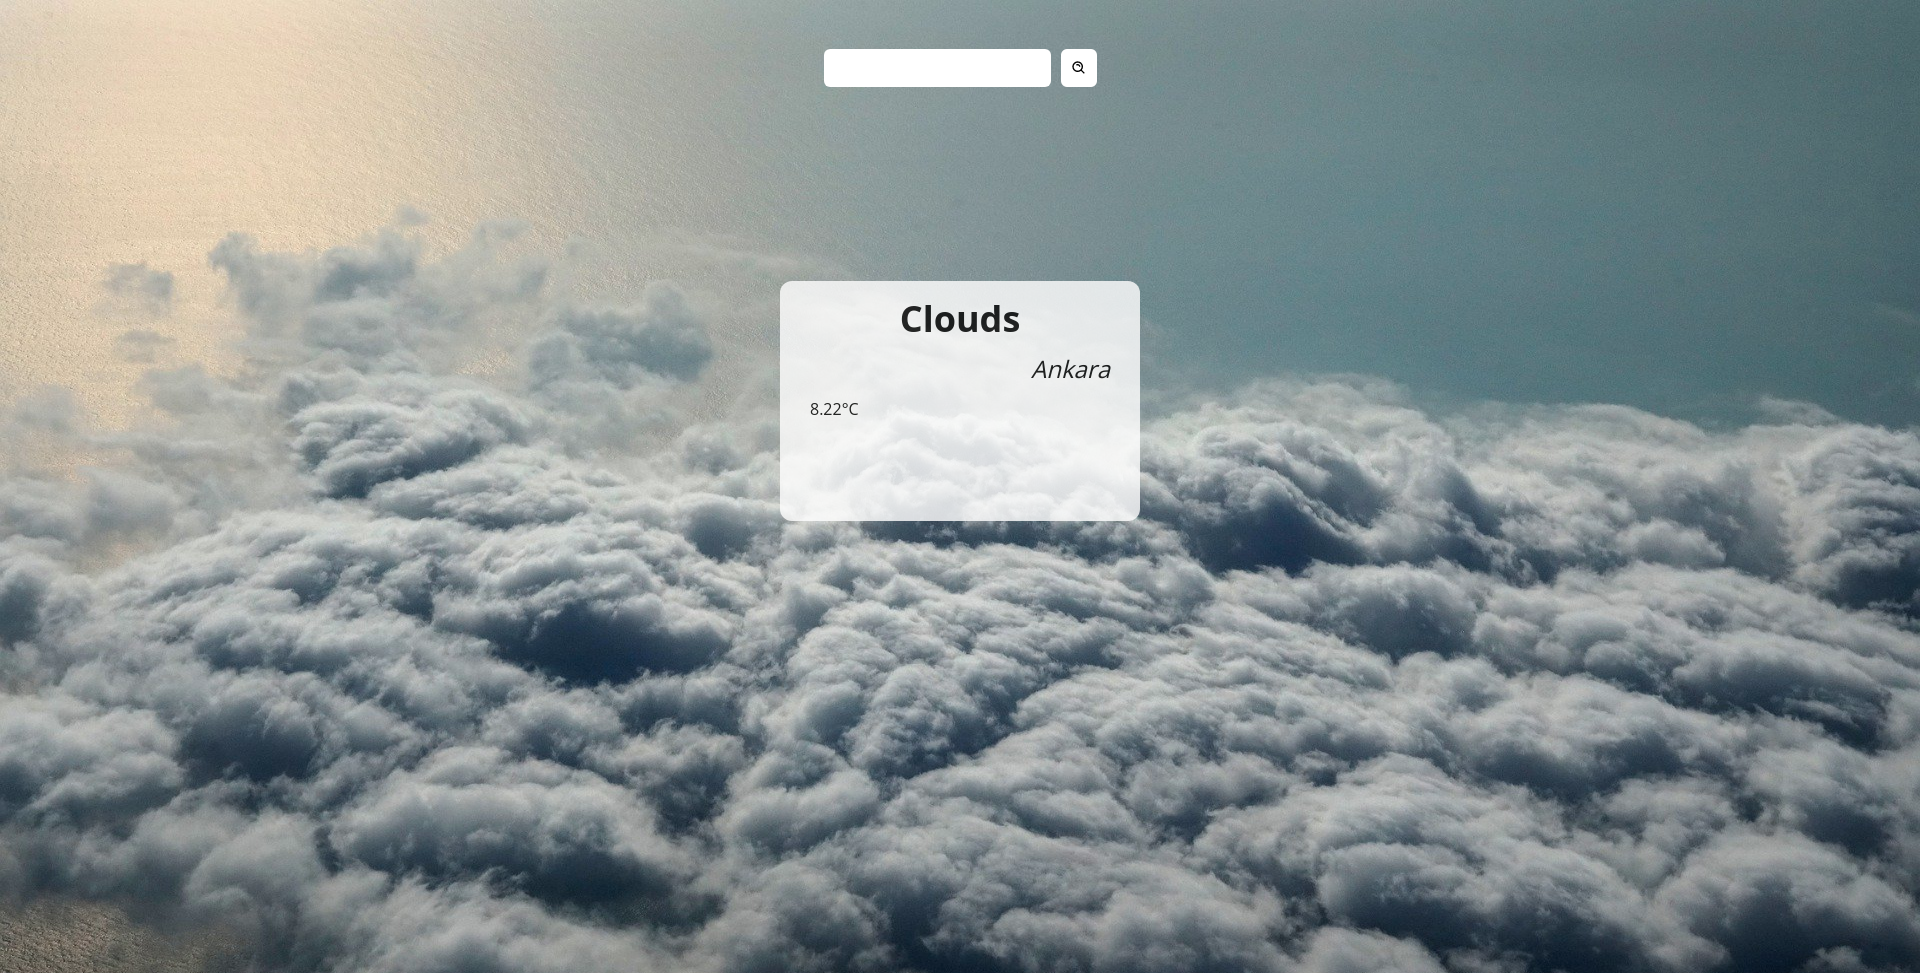
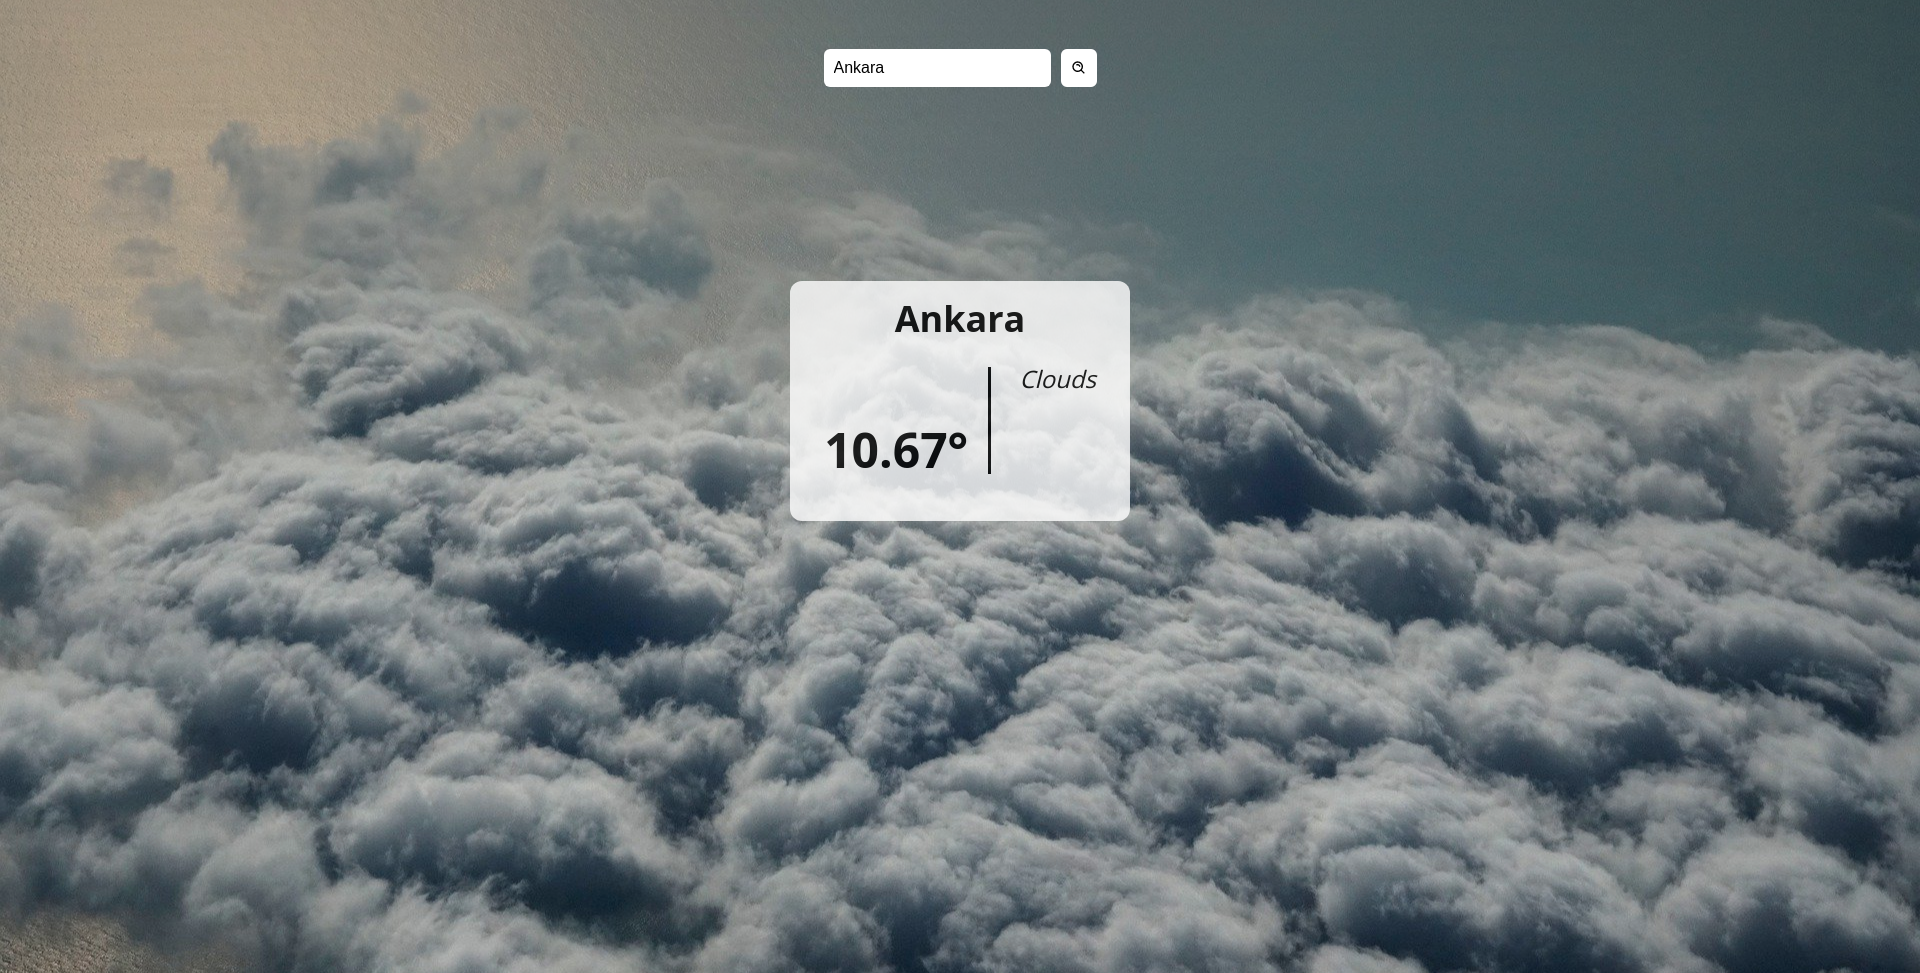
weather-app: Redesign card && Build

diff --git a/weather-app/dist/index.js b/weather-app/dist/index.js
@@ -1,1 +1,1 @@
-(()=>{"use strict";function t(t,e,i,a){const s=document.createElement(t);return Array.isArray(e)?e.forEach((t=>s.classList.add(t))):t&&s.classList.add(e),i&&(s.innerText=i),a&&s.setAttribute("id",a),s}const e=new class{constructor(t){this.root=document.querySelector(t),this.bgImgDispatch={Clouds:"clouds.jpg",Clear:"clear.jpg",Snow:"snow.jpg"}}createCard({type:e,city:i,degree:a}){const s=t("div","card");return[t("div","type",e),t("div","city",i),t("div","degree",a)].forEach((t=>s.appendChild(t))),s}insertCard=t=>{const e=this.createCard(t);this.root.innerHTML="",this.root.appendChild(e)};changeBackground(t){t in this.bgImgDispatch&&(document.body.style.backgroundImage=`url(images/${this.bgImgDispatch[t]})`,document.body.style.backgroundSize="1920px 1080px")}}("#root"),i=new class{constructor(t,e){this.view=t,this.inputElement=document.querySelector(e),this.API_KEY="0e53e87f32b3455f4c4a3fec3c04c53b",this.initialStateDone=!1}async submitCity(t){if(t===this.lastCity)return;const e=await this.fetchData(t),i={city:e.name,type:e.weather[0].main,degree:e.main.temp};this.lastCity=i.city,this.view.changeBackground(i.type),this.view.insertCard(i)}async fetchData(t){const e=await fetch(`https://api.openweathermap.org/data/2.5/weather?q=${t}&APPID=${this.API_KEY}&units=metric`);if(!e.ok)throw new Error(`Problem in fetch in ${t}`);return e.json()}initialState(t="Ankara"){this.initialStateDone||(this.submitCity(t),this.lastCity=t,this.initialStateDone=!0)}async doSearch(){this.submitCity(this.inputElement.value)}}(e,"#search-city-input");document.getElementById("search-city-form").addEventListener("submit",(t=>{t.preventDefault(),i.doSearch()})),i.initialState()})();
+(()=>{"use strict";function t(t,e,i,a){const s=document.createElement(t);return Array.isArray(e)?e.forEach((t=>s.classList.add(t))):t&&s.classList.add(e),i&&(s.innerText=i),a&&s.setAttribute("id",a),s}const e=new class{constructor(t){this.root=document.querySelector(t),this.bgImgDispatch={Clouds:"clouds.jpg",Clear:"clear.jpg",Drizzle:"drizzle.jpg",Mist:"mist.jpg",Snow:"snow.jpg",Thunder:"thunder.jpg"}}createCard({type:e,city:i,degree:a}){const s=t("div","card"),n=t("div","type",e),r=t("div","city",i),c=t("div","degree",a);s.appendChild(r);const h=t("div","other"),o=t("div","degree-container");return o.appendChild(c),[o,n].forEach((t=>h.appendChild(t))),s.appendChild(h),s}insertCard=t=>{const e=this.createCard(t);this.root.innerHTML="",this.root.appendChild(e)};changeBackground(t){t in this.bgImgDispatch&&(document.querySelector("html").style.backgroundImage=`linear-gradient(to top, rgba(0, 0, 0, 0), rgba(0, 0, 0, 0.30)), url(images/${this.bgImgDispatch[t]})`)}shakeInput(){const t=document.getElementById("search-city-input");t.classList.add("shaking"),setTimeout((()=>t.classList.remove("shaking")),500)}}("#root"),i=new class{constructor(t,e){this.view=t,this.inputElement=document.querySelector(e),this.API_KEY="0e53e87f32b3455f4c4a3fec3c04c53b",this.initialStateDone=!1}async submitCity(t){if(t===this.lastCity)return;const e=await this.fetchData(t),i={city:e.name,type:e.weather[0].main,degree:e.main.temp};this.lastCity=i.city,this.view.changeBackground(i.type),this.view.insertCard(i)}async fetchData(t){const e=await fetch(`https://api.openweathermap.org/data/2.5/weather?q=${t}&APPID=${this.API_KEY}&units=metric`);if(!e.ok)throw this.view.shakeInput(),new Error(`Problem in fetch in ${t}`);return e.json()}initialState(t="Ankara"){this.initialStateDone||(this.submitCity(t),this.lastCity=t,this.initialStateDone=!0)}async doSearch(){this.submitCity(this.inputElement.value)}}(e,"#search-city-input");document.getElementById("search-city-form").addEventListener("submit",(t=>{t.preventDefault(),i.doSearch()})),i.initialState()})();

diff --git a/weather-app/dist/style/style.css b/weather-app/dist/style/style.css
@@ -24,31 +24,52 @@ body {
   height: 200px;
   background-color: white;
   border-radius: 12px;
-  padding: 20px 30px;
+  padding: 20px 20px;
+
   display: flex;
   flex-direction: column;
-  gap: 20px;
+  gap: 30px;
+
   opacity: 0.8;
 }
 
+.other {
+  display: flex;
+  justify-content: space-around;
+  align-items: flex-start;
+  flex-grow: 1;
+}
+
 .type {
+  font-size: 24px;
+  font-style: italic;
+}
+
+.city {
+  order: -1;
   font-size: 36px;
   font-weight: bold;
   text-align: center;
 }
 
-.city {
-  font-size: 24px;
-  font-style: italic;
-  text-align: right;
+.degree-container {
+  display: flex;
+  justify-content: center;
+  align-items: center;
+  border-right: 3px solid black;
+
+  height: 80%;
 }
 
 .degree {
-  font-size: 16px;
+  font-size: 48px;
+  font-weight: bold;
+  align-self: flex-end;
+  padding-right: 20px;
 }
 
 .degree::after {
-  content: "°C";
+  content: "°";
 }
 
 form {
@@ -80,15 +101,15 @@ button:focus {
 }
 @keyframes shake {
   25% {
-    transform: translate(5px, 0px);
+    transform: translate(5px, 0);
   }
   50% {
-    transform: translate(-5px, 0px);
+    transform: translate(-5px, 0);
   }
   75% {
-    transform: translate(-5x, 0px);
+    transform: translate(-5px, 0);
   }
   100% {
-    transform: translate(5x, 0px);
+    transform: translate(5px, 0);
   }
 }

diff --git a/weather-app/src/View.js b/weather-app/src/View.js
@@ -24,9 +24,15 @@ export default class View {
     const cityElement = createElement("div", "city", city);
     const degreeElement = createElement("div", "degree", degree);
 
-    [typeElement, cityElement, degreeElement].forEach((e) =>
-      card.appendChild(e)
-    );
+    card.appendChild(cityElement);
+
+    const other = createElement("div", "other");
+    const degreeContainer = createElement("div", "degree-container");
+    degreeContainer.appendChild(degreeElement);
+
+    [degreeContainer, typeElement].forEach((e) => other.appendChild(e));
+
+    card.appendChild(other);
 
     return card;
   }
